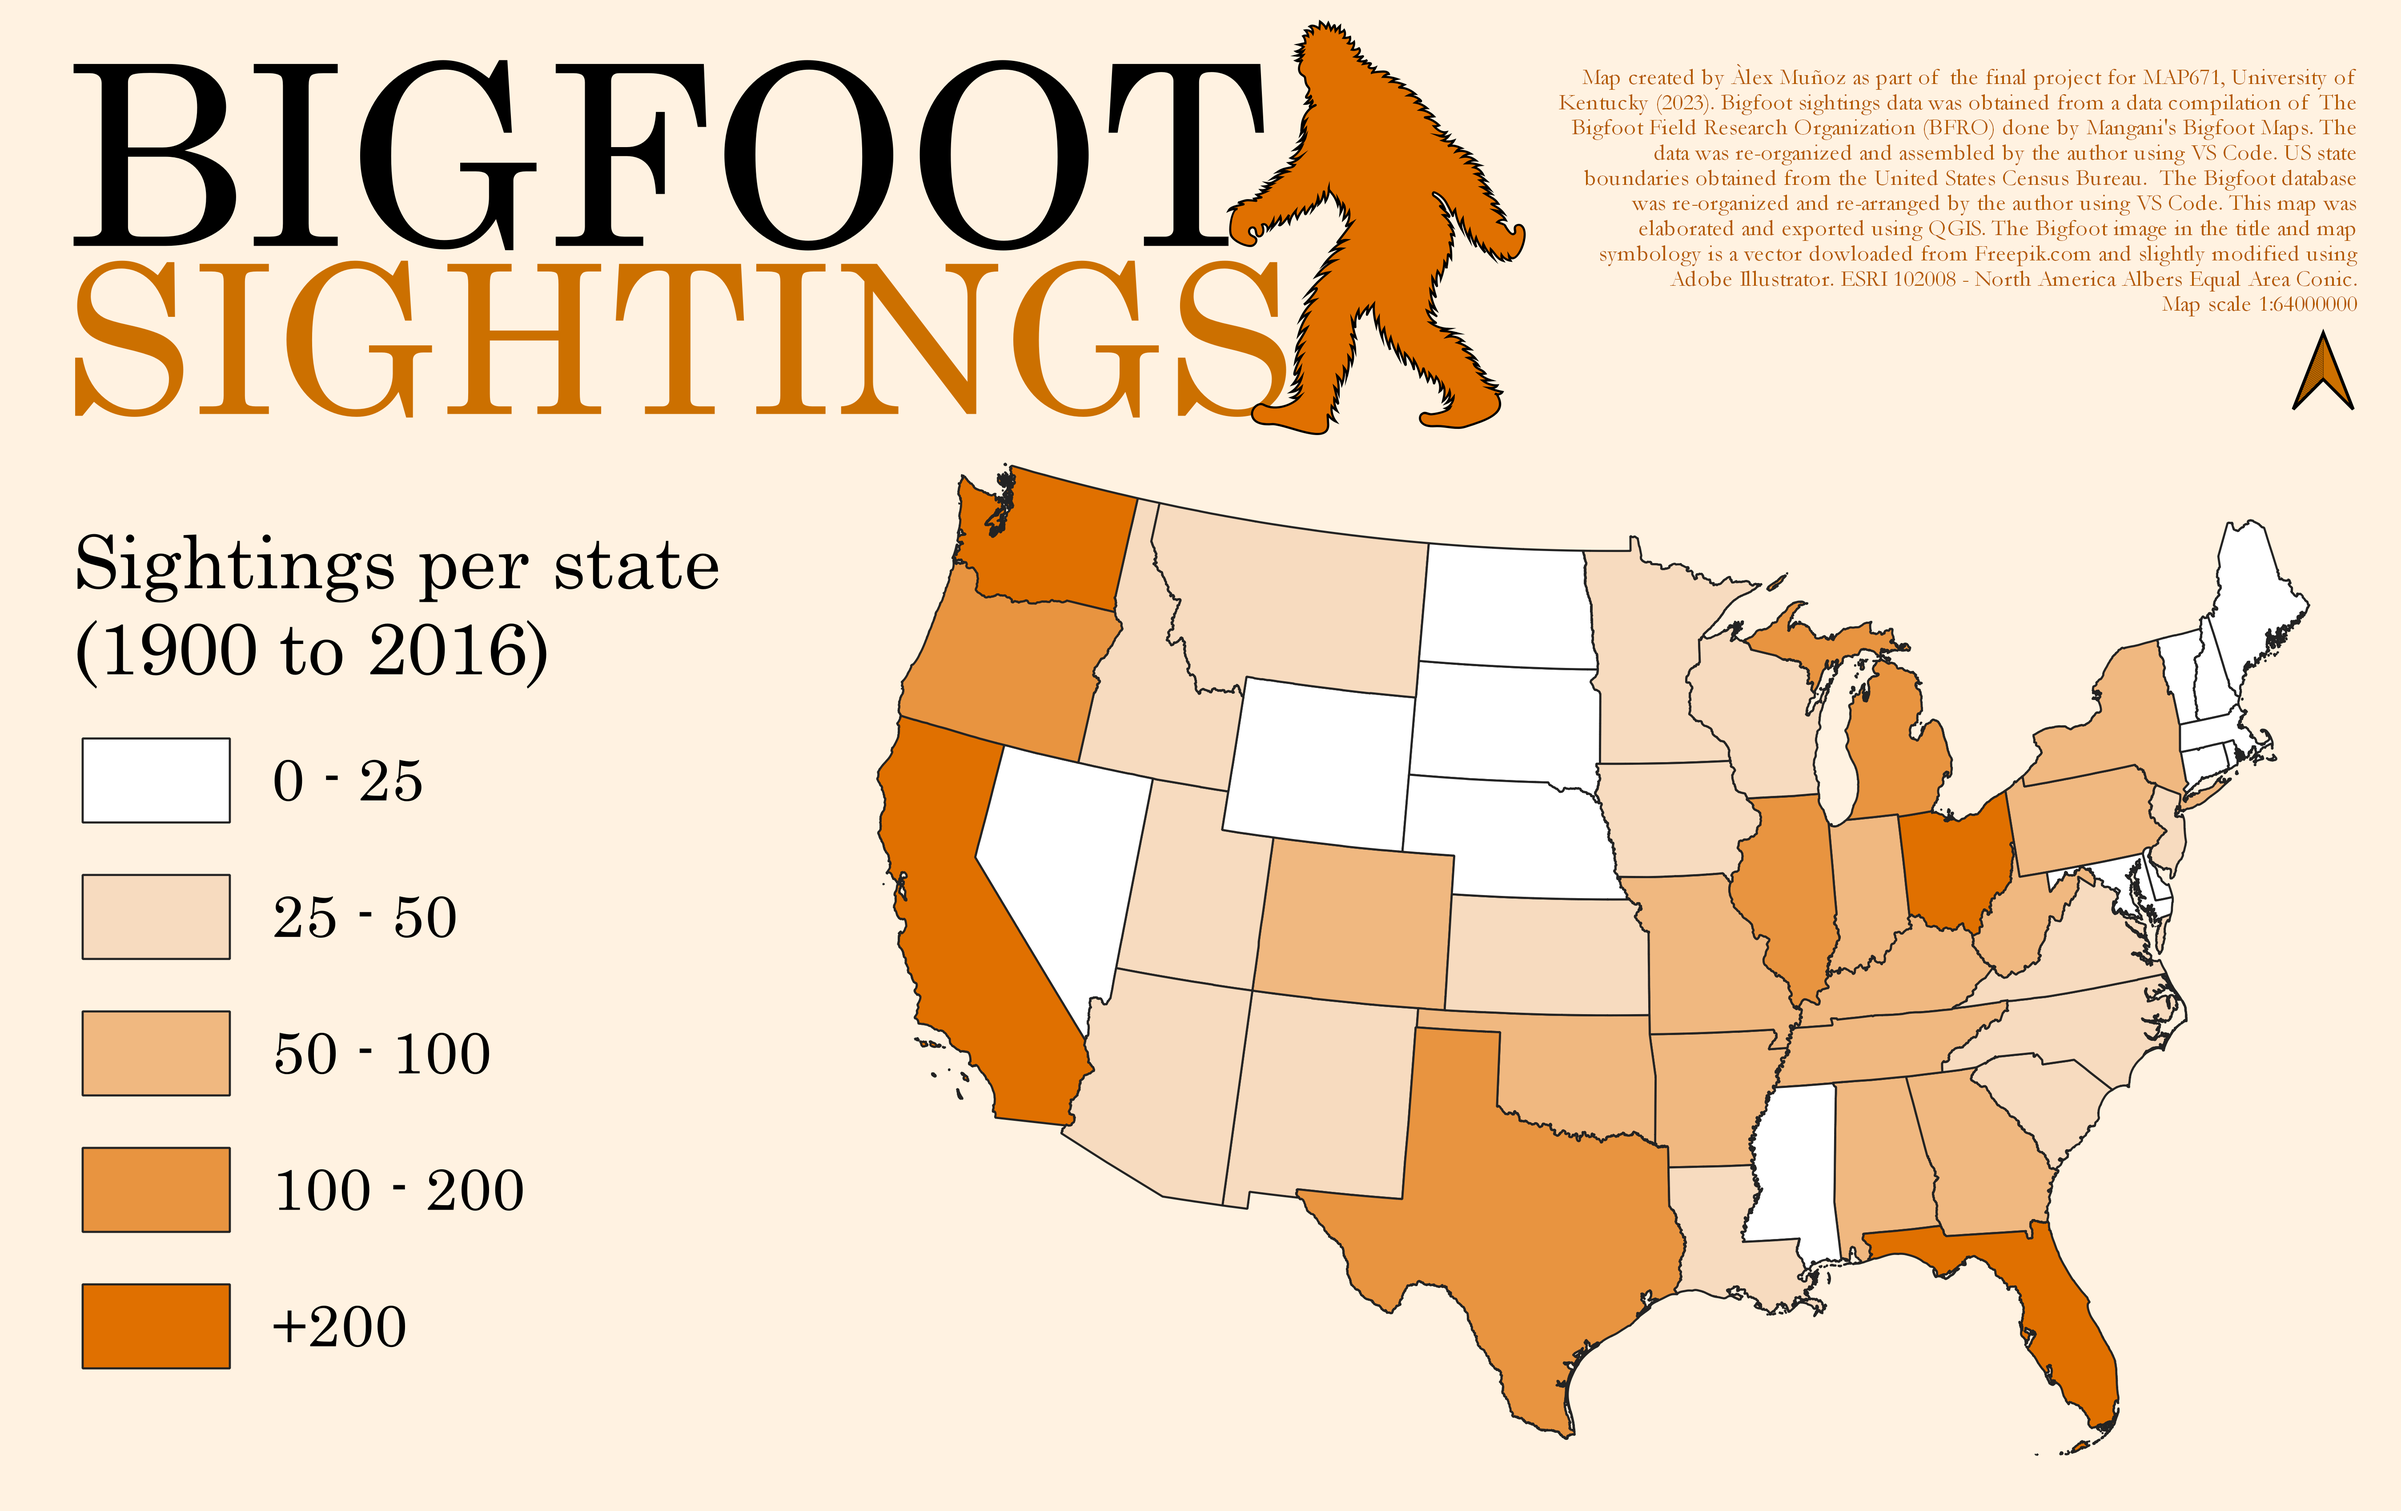
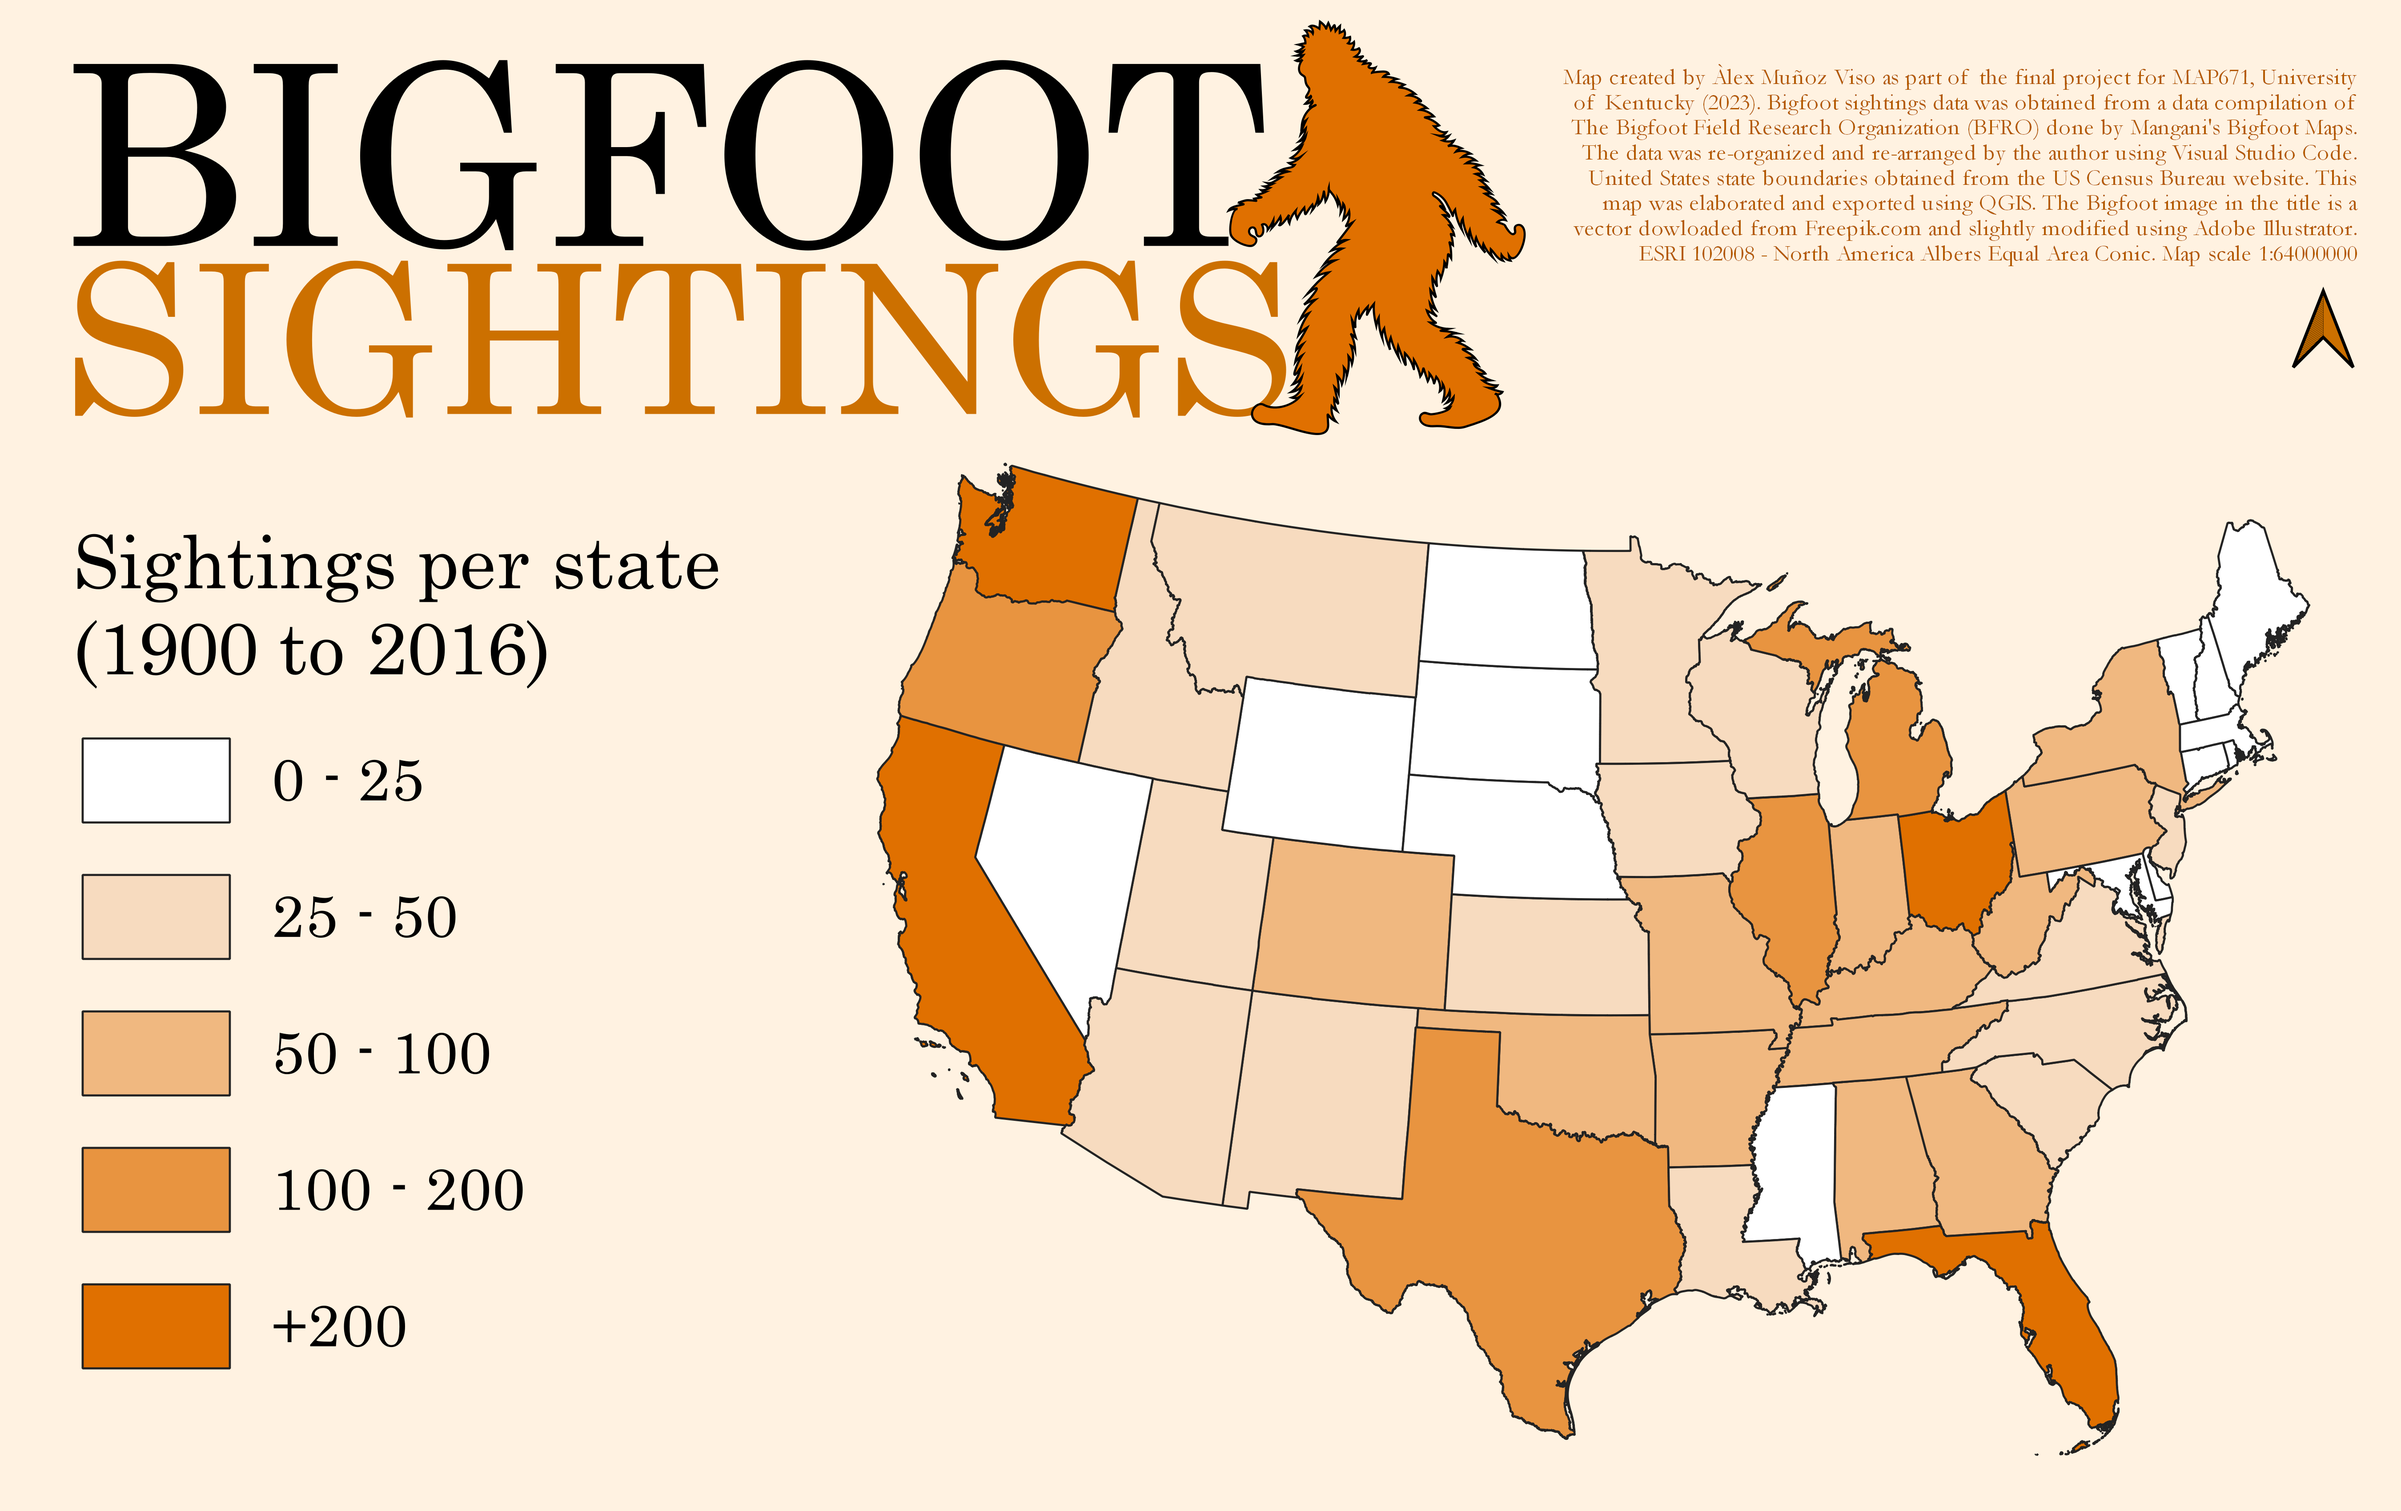
edit-maps-index&readme--mapmakingprocess

Changed region(s): [[0.6533, 0.0312, 0.9956, 0.2806]]

diff --git a/index.html b/index.html
@@ -103,14 +103,6 @@
             padding-top: 20px;
         }
 
-        /* Clear floats after the columns */
-
-        .row:after {
-            content: "";
-            display: table;
-            clear: both;
-        }
-
         .svg-title {
             float: left;
             display: inline-block;
@@ -135,12 +127,11 @@
         <img src="miniature\bf-symbol4.svg" class="svg-title">
         <h1>Mapping Bigfoot Sightings in the Contiguous United States</h1>
         <h2>Àlex Muñoz Viso (he/him/his), MAP671 Final Project</h2>
-        <div class="row">
-            <div class="first-column">
+        
                 <h3>Project Introduction</h3>
                 <p>
                     For the final project of MAP671, I wanted to create a map representing 
-                    curious data. Looking for different themes, I stumbled upon <a hred="http://www.bfro.net">The Bigfoot Field Research Organization (BFRO)</a>, a website compiling 
+                    curious data. Looking for different themes, I stumbled upon <a href="http://www.bfro.net">The Bigfoot Field Research Organization (BFRO)</a>, a website compiling 
                     different databases of Bigfoot encounters including sightings, audible sightings, trackmarks, or footprints. Every report included in these databases is 
                     geocoded and timestamped. </p>
 
@@ -152,12 +143,12 @@
 
                 <h3>Data Sources</h3>
                 <p>
-                    I built my <b>Bigfoot sightings database</b> using the 2016 updated creature sighting data from the <a hred="http://www.bfro.net">BFRO</a> 
-                    summarized by <a hred="http://penn.freeservers.com/bigfootmaps">Mangani's Bigfoot Maps</a>. The <b>2022 United States county and state boundaries</b> were obtained from the <a hred="https://www.census.gov/geographies/mapping-files/time-series/geo/cartographic-boundary">United States Census Bureau website</a>.
+                    I built my <b>Bigfoot sightings database</b> using the 2016 updated creature sighting data from the <a href="http://www.bfro.net">BFRO</a> 
+                    summarized by <a href="http://penn.freeservers.com/bigfootmaps">Mangani's Bigfoot Maps</a>. The <b>2022 United States county and state boundaries</b> were obtained from the <a href="https://www.census.gov/geographies/mapping-files/time-series/geo/cartographic-boundary">United States Census Bureau website</a>.
                 </p>
                 <h3>Other Sources</h3>
                 <p>
-                    The Bigfoot miniature used all over this project is a slightly modified version of a vector downladed from <a hred="https://www.freepik.com/">Freepik</a>.
+                    The Bigfoot miniature used all over this project is a slightly modified version of a vector downladed from <a href="https://www.freepik.com/">Freepik</a>.
                 </p>
                 
                 <h3>Tools used in this project</h3>
@@ -188,7 +179,8 @@
                 </p>
 
                 <img class="max-image-width" src="maps/map1-states600dpi.png"  alt="Failed to load: Map showing reported Bigfoot Sightings per state from 1900 to 2016"
-                    title="Gray&#x27;s Arch">
+                    title="Bigfoot Sightings by State"> 
+                    <div class="linkbox">You can access a high resolution 1200dpi version of this map <a href="https://github.com/alexmunozviso/map671-fp/blob/main/maps/map1-states1200dpi.png">here</a>.</div>
 
                 <h4><a id="Bigfoot Sightings by County">Bigfoot Sightings by County area</a></h4>
                 <p>
@@ -198,7 +190,8 @@
                 </p>
 
                 <img class="max-image-width" src="maps/map2-counties600dpi.png"  alt="Failed to load: Map showing Bigfoot sighting density by county"
-                    title="Gray&#x27;s Arch">
+                    title="Bigfoot Sightings by County area">
+                    <div class="linkbox">You can access a high resolution 1200dpi version of this map <a href="https://github.com/alexmunozviso/map671-fp/blob/main/maps/map2-counties1200dpi.png">here</a>.</div>
 
                 <h4><a id="Bigfoot Sighting Reports (1900-2016)">Bigfoot Sighting Reports (1900-2016)</a></h4>
                 <p>
@@ -208,17 +201,22 @@
                 </p>
 
                 <img class="max-image-width" src="maps/map3-reports600dpi.png" alt="Failed to load: Map showing reported Bigfoot Sightings from 1900 to 2016"
-                    title="Gray&#x27;s Arch">
-
+                    title="Bigfoot Sighting Reports (1900-2016)">
+                    <div class="linkbox">You can access a high resolution 1200dpi version of this map <a href="https://github.com/alexmunozviso/map671-fp/blob/main/maps/map3-reports1200dpi.png">here</a>.</div>
+        
+        <hr>
                     <h3>Final thoughts</h3>
                 <p>
                     This project was a playful way of reviewing and applying many of the topics, tools, and processes learned during the course. Moreover, the topic I chose allows for 
                     very interesting reflections on the nature of data, the relationship between data and truth, or online data and mapping communities. Overall, I am happy with 
                     the results of this project and I am really looking forward to continue the learning process next semester in MAP672.
                 </p>
+                
+                <p>
+                    You can access the Github repository of this project <a href="https://github.com/alexmunozviso/map671-fp">here</a>.
+                </p>
 
-            </div>
-        </div>
+       
 
 
         <hr>

diff --git a/README.md b/README.md
@@ -11,6 +11,8 @@
     - [Other Data](#other-data)
   - [Tools Used](#tools-used)
   - [Mapmaking Process](#mapmaking-process)
+    - [Static Maps](#static-maps)
+    - [Webmap](#webmap)
 - [Final Project Link](#final-project-link)
 
 ***
@@ -30,7 +32,7 @@ Here you can download the prime CSV file and the final version of the database a
 * [bfro-creature-sightings.csv](https://github.com/alexmunozviso/map671-fp/blob/main/data/bfro-creature-sightings.csv)
 * [us-clipped-bfro-creature-sightings.geojson](https://github.com/alexmunozviso/map671-fp/blob/main/data/us-clipped-bfro-creature-sightings.geojson)
 
-![CSV screenshot](https://github.com/alexmunozviso/map671-fp/blob/main/img/fig1.png)
+![Fig 1&2](https://github.com/alexmunozviso/map671-fp/blob/main/img/fig1-2.png)
 *Fig. 1 (left): VS Code screenshot of the text file as downloaded from Mangani's Bigfoot Maps* | *Fig. 2 (right): VS Code screenshot of the final CSV file database*
 
 
@@ -41,12 +43,22 @@ Here you can download the prime CSV file and the final version of the database a
 
 ## Tools Used
 * [Visual Studio Code](https://code.visualstudio.com) was used to create the Bigfoot Sighting Database.
-* [QGIS](https://www.qgis.org) was used to geoprocess, analyze, and represent the geodata for this project.
+* [QGIS](https://www.qgis.org) was used to geoprocess, analyze, and represent the geodata for this project. The static maps were also exported using QGIS layouts.
 * Data is shown on [Mapbox](https://www.mapbox.com/) web map. If the map got popular it would require a fee to use.
 * [Adobe Illustrator](https://www.adobe.com/products/illustrator) was used to edit the Bigfoot miniatures used as map symbols and as part of the website's graphics.
 
 ## Mapmaking Process
+### Static Maps
+The static maps were all created using QGIS. The CRS was set to ESRI: 102008 (North America Albers Equal Area Conic), as it is a standard projected coordinate system for mapping the contiguous United States. 
 
+First, I imported the CSV containing the Bigfoot sightings database as delimited text using the Data Source Manager (see Fig. 3). The data was then imported to QGIS as a point data layer. Then, I imported the  shapefiles downloaded from the US Census Bureau containing state and county boundaries. 
+![Fig 3](https://github.com/alexmunozviso/map671-fp/blob/main/img/fig3.png)
+*Fig. 3: Thanks to the data values re-organization seen in Fig. 2, the CSV file can be imported as a point layer through the lat/lon fields*
+
+Using the Vector geoprocessing tool 'Clip', I extracted those Bigfoot sightings within my database that happened in the contiguous US. I did so clipping 
+
+
+### Webmap
 
 # Final Project Link
 
